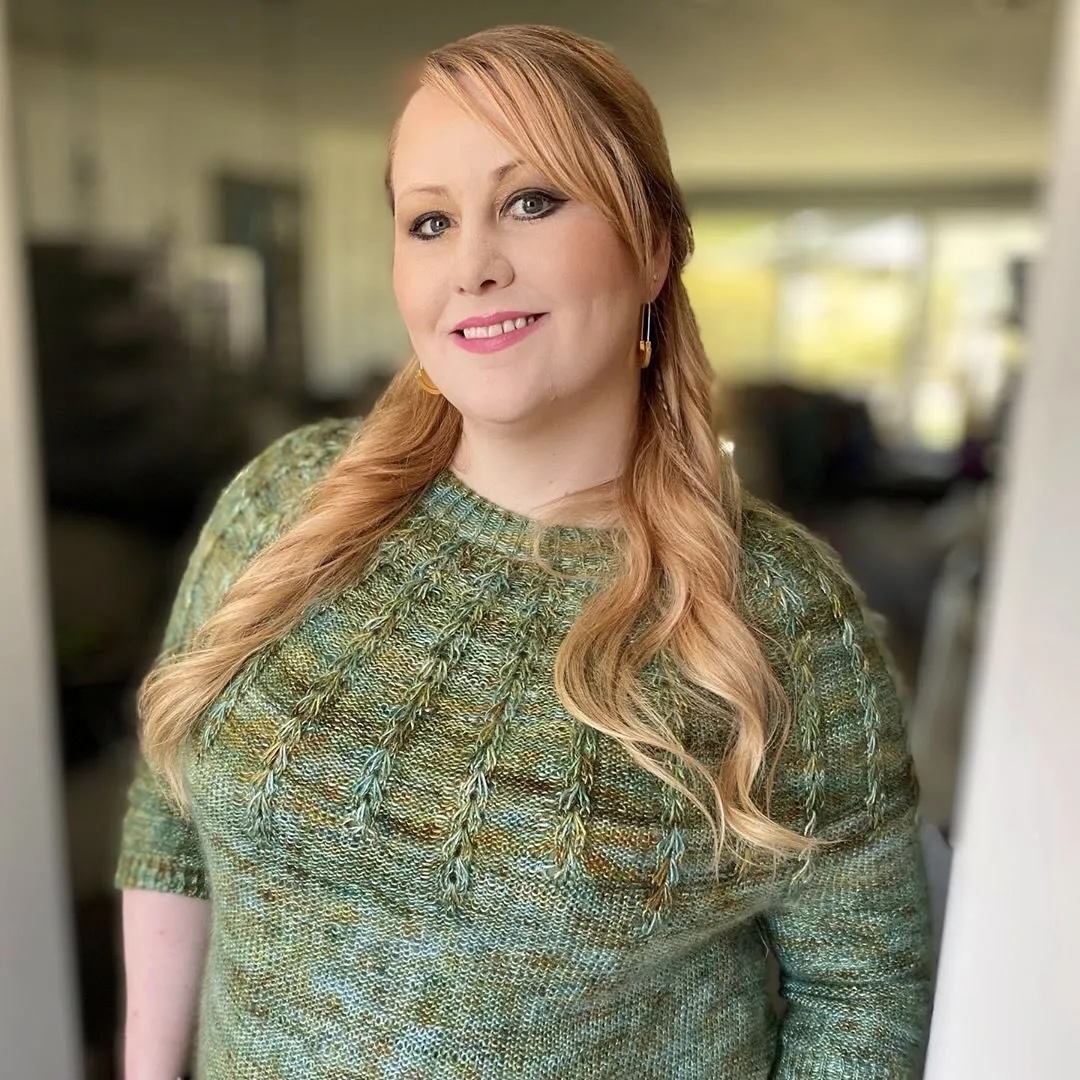
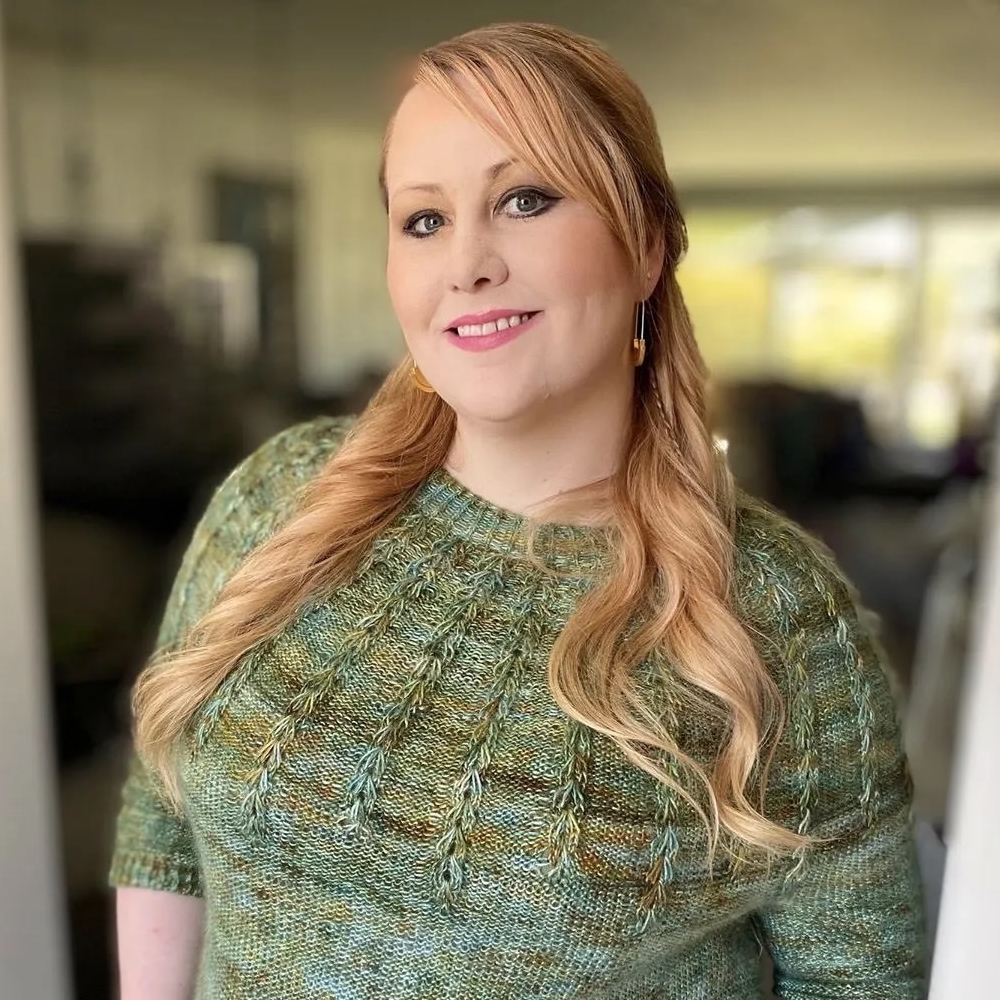
Fix: Adjust About page hero image positioning to prevent forehead cutoff

diff --git a/app/about/page.tsx b/app/about/page.tsx
@@ -35,12 +35,13 @@ export default async function AboutPage() {
             </div>
             
             {/* Full-size Image */}
-            <div className="lg:w-1/2 relative h-[500px] w-full rounded-lg overflow-hidden shadow-xl">
+            <div className="lg:w-1/2 relative h-[550px] w-full rounded-lg overflow-hidden shadow-xl">
               <Image 
                 src="/images/about.jpg" 
                 alt="Sarah Wharton, Professional Astrologer" 
                 fill
-                className="object-cover object-center"
+                className="object-cover object-position-y-[40%]"
+                style={{ objectPosition: '50% 30%' }}
                 priority
               />
             </div>
